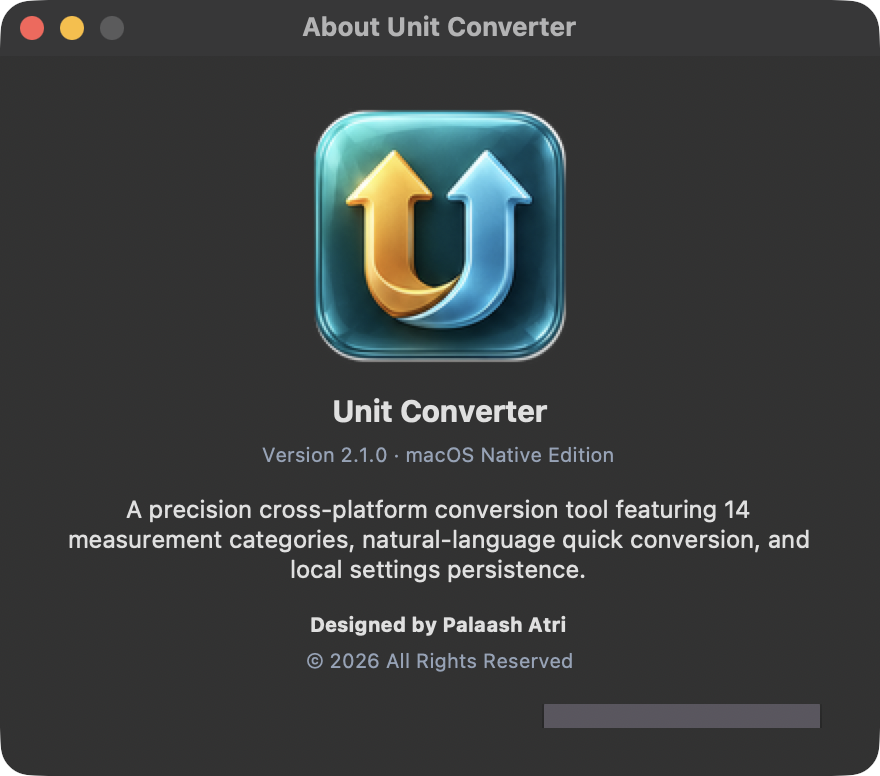
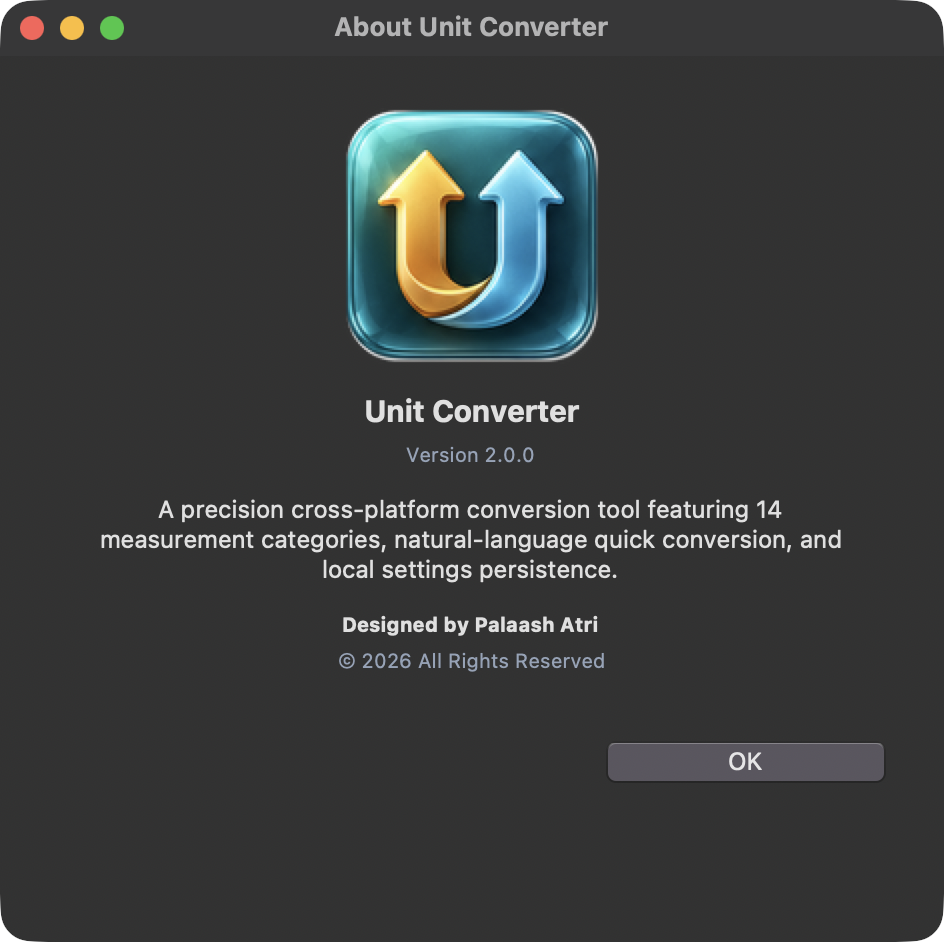
fix(ui): address PR review comments for dialog sizing, shortcuts, preferences focus, and asset bundling

diff --git a/app.py b/app.py
@@ -1,6 +1,7 @@
 """Main application window and launcher for the Unit Converter desktop app."""
 
 import argparse
+import os
 from pathlib import Path
 import sys
 from tempfile import TemporaryDirectory
@@ -112,7 +113,7 @@ def init_style(root: tk.Tk, state: AppState) -> ttk.Style:
 
 def setup_menu_bar(root: tk.Tk, notebook: ttk.Notebook, show_about_dialog,
                    do_reset_tab, do_swap_tab, do_copy_tab_result,
-                   do_focus_quick, do_clear_history, do_close_window):
+                   do_focus_quick, do_focus_preferences, do_clear_history, do_close_window):
     """Build a functional macOS / cross-platform system menu bar."""
     is_mac = sys.platform == "darwin"
     menubar = tk.Menu(root)
@@ -124,19 +125,20 @@ def setup_menu_bar(root: tk.Tk, notebook: ttk.Notebook, show_about_dialog,
         app_menu.add_command(label="About Unit Converter", command=show_about_dialog)
         app_menu.add_separator()
         app_menu.add_command(label="Preferences...", accelerator="Cmd+,",
-                            command=lambda: root.nametowidget(".!frame.!frame2.!labelframe.!spinbox").focus_set())
+                             command=do_focus_preferences)
         app_menu.add_separator()
         app_menu.add_command(label="Hide Unit Converter", accelerator="Cmd+H",
-                            command=lambda: root.iconify())
-        app_menu.add_command(label="Hide Others", accelerator="Option+Cmd+H")
-        app_menu.add_command(label="Show All")
+                             command=lambda: root.tk.call("wm", "iconify", root._w))
+        app_menu.add_command(label="Hide Others", accelerator="Option+Cmd+H",
+                             command=brand.hide_other_applications)
+        app_menu.add_command(label="Show All", command=brand.unhide_all_applications)
         app_menu.add_separator()
         app_menu.add_command(label="Quit Unit Converter", accelerator="Cmd+Q", command=do_close_window)
 
     # 2. File Menu
     file_menu = tk.Menu(menubar, tearoff=0)
     menubar.add_cascade(label="File", menu=file_menu)
-    file_menu.add_command(label="New / Clear Tab", accelerator="Cmd+N" if is_mac else "Ctrl+N",
+    file_menu.add_command(label="New Conversion", accelerator="Cmd+N" if is_mac else "Ctrl+N",
                           command=do_reset_tab)
     file_menu.add_command(label="Clear Current Tab", accelerator="Cmd+K" if is_mac else "Ctrl+K",
                           command=do_reset_tab)
@@ -281,7 +283,7 @@ def build_main_window(settings_path: Path | str | None = None) -> tk.Tk:
     header.grid(row=0, column=0, sticky="ew")
     header.columnconfigure(1, weight=1)
 
-    brand_icon_photo = brand.get_brand_photo(36, master=root) or brand.get_brand_photo(32, master=root)
+    brand_icon_photo = brand.get_brand_photo(32, master=root)
     if brand_icon_photo:
         icon_label = ttk.Label(header, image=brand_icon_photo)
         icon_label.image = brand_icon_photo
@@ -299,17 +301,9 @@ def build_main_window(settings_path: Path | str | None = None) -> tk.Tk:
     def show_about():
         about_window = tk.Toplevel(root)
         about_window.title("About Unit Converter")
-        about_window.resizable(False, False)
+        about_window.resizable(True, True)
         about_window.transient(root)
         about_window.grab_set()
-
-        # Center the window
-        about_window.update_idletasks()
-        width = 440
-        height = 360
-        x = (about_window.winfo_screenwidth() // 2) - (width // 2)
-        y = (about_window.winfo_screenheight() // 2) - (height // 2)
-        about_window.geometry(f"{width}x{height}+{x}+{y}")
 
         content = ttk.Frame(about_window, padding=24)
         content.pack(fill="both", expand=True)
@@ -321,7 +315,8 @@ def build_main_window(settings_path: Path | str | None = None) -> tk.Tk:
             img_lbl.pack(pady=(0, 10))
 
         ttk.Label(content, text="Unit Converter", style="Header.TLabel").pack(pady=(0, 2))
-        ttk.Label(content, text="Version 2.1.0 · macOS Native Edition", style="Subheader.TLabel").pack(pady=(0, 10))
+        version = os.environ.get("UNITCONVERTER_VERSION", "2.0.0")
+        ttk.Label(content, text=f"Version {version}", style="Subheader.TLabel").pack(pady=(0, 10))
 
         ttk.Label(
             content,
@@ -334,8 +329,17 @@ def build_main_window(settings_path: Path | str | None = None) -> tk.Tk:
         ttk.Label(content, text="© 2026 All Rights Reserved", style="Subheader.TLabel").pack(pady=(0, 14))
 
         btn_row = ttk.Frame(content)
-        btn_row.pack(fill="x")
+        btn_row.pack(fill="x", pady=(10, 0))
         ttk.Button(btn_row, text="OK", command=about_window.destroy, width=10).pack(side="right", padx=5)
+
+        # Center the window dynamically based on required content size
+        about_window.update_idletasks()
+        req_w = max(440, content.winfo_reqwidth() + 48)
+        req_h = max(440, content.winfo_reqheight() + 48)
+        about_window.minsize(420, 380)
+        x = (about_window.winfo_screenwidth() // 2) - (req_w // 2)
+        y = (about_window.winfo_screenheight() // 2) - (req_h // 2)
+        about_window.geometry(f"{req_w}x{req_h}+{x}+{y}")
 
     ttk.Button(header, text="About", command=show_about, width=8).grid(
         row=0, column=2, rowspan=2, sticky="e", padx=5
@@ -545,6 +549,11 @@ def build_main_window(settings_path: Path | str | None = None) -> tk.Tk:
     history_top.pack(fill="x", pady=(0, 4))
 
     def clear_history_action():
+        for cancel_fn in tuple(getattr(root, "_pending_history_cancelers", ())):
+            try:
+                cancel_fn()
+            except Exception:
+                pass
         state.history.clear()
         persist_settings()
         update_history()
@@ -608,6 +617,13 @@ def build_main_window(settings_path: Path | str | None = None) -> tk.Tk:
         if frame and hasattr(frame, "copy_result"):
             frame.copy_result()
 
+    def focus_preferences():
+        precision_spin.focus_set()
+        try:
+            precision_spin.selection_range(0, "end")
+        except Exception:
+            pass
+
     def focus_quick():
         quick_entry.focus_set()
         quick_entry.select_range(0, "end")
@@ -633,6 +649,7 @@ def build_main_window(settings_path: Path | str | None = None) -> tk.Tk:
         do_swap_tab=swap_current_tab,
         do_copy_tab_result=copy_current_result,
         do_focus_quick=focus_quick,
+        do_focus_preferences=focus_preferences,
         do_clear_history=clear_history_action,
         do_close_window=close_window,
     )
@@ -644,7 +661,13 @@ def build_main_window(settings_path: Path | str | None = None) -> tk.Tk:
     root.bind(f"<{mod_key}-q>", lambda e: close_window())
     root.bind(f"<{mod_key}-s>", lambda e: swap_current_tab())
     root.bind(f"<{mod_key}-k>", lambda e: reset_current_tab())
+    root.bind(f"<{mod_key}-n>", lambda e: reset_current_tab())
     root.bind(f"<{mod_key}-l>", lambda e: focus_quick())
+    root.bind(f"<{mod_key}-comma>", lambda e: focus_preferences())
+    root.bind(f"<{mod_key}-Shift-C>", lambda e: copy_current_result())
+    root.bind(f"<{mod_key}-Shift-c>", lambda e: copy_current_result())
+    root.bind(f"<{mod_key}-Shift-K>", lambda e: clear_history_action())
+    root.bind(f"<{mod_key}-Shift-k>", lambda e: clear_history_action())
     for i in range(10):
         root.bind(f"<{mod_key}-{i}>", lambda e, idx=i-1: notebook.select(idx if idx >= 0 else 9))
 

diff --git a/test/test_gui.py b/test/test_gui.py
@@ -1,5 +1,6 @@
 """GUI smoke and behavior tests for converter tabs."""
 
+import sys
 import tkinter as tk
 from tkinter import ttk
 
@@ -405,3 +406,86 @@ def test_packaged_smoke_test_mode_checks_all_tabs_and_exits(tk_root, capsys):
     result = app_module.main(["--smoke-test"])
     assert result == 0
     assert "14 converter tabs" in capsys.readouterr().out
+
+
+def test_preferences_menu_focuses_precision_spinbox(tk_root, tmp_path):
+    root, errors = tk_root
+    app = build_main_window(settings_path=tmp_path / "settings.json")
+    app.deiconify()
+    app.focus_force()
+    app.update()
+    try:
+        menubar = app.nametowidget(app.cget("menu"))
+        # On macOS, Preferences is under the apple menu
+        apple_menu = None
+        for child in menubar.winfo_children():
+            if child.winfo_name() == "apple":
+                apple_menu = child
+                break
+        if apple_menu is not None:
+            apple_menu.invoke(2)
+            app.update()
+            spin = _named_widget(app, "precision_spinbox")
+            assert app.focus_get() == spin
+        assert errors == []
+    finally:
+        app.destroy()
+
+
+def test_clear_history_discards_pending_conversion_timer(tk_root, tmp_path):
+    root, errors = tk_root
+    app = build_main_window(settings_path=tmp_path / "settings.json")
+    app.deiconify()
+    app.update()
+    try:
+        nb = _notebook(app)
+        nb.select(13)  # Cooking tab
+        app.update()
+        frame = nb.nametowidget(nb.select())
+        combos = [w for w in _walk(frame) if isinstance(w, ttk.Combobox)]
+        entries = [w for w in _walk(frame) if isinstance(w, ttk.Entry) and not isinstance(w, ttk.Combobox)]
+        combos[0].set("Cup (US)")
+        combos[1].set("Milliliter")
+        entries[0].insert(0, "2")
+        app.update()
+
+        # Immediately invoke Clear History before the 500ms debounce timer
+        clear_btn = next(
+            w for w in _walk(app)
+            if isinstance(w, ttk.Button) and w.cget("text") == "Clear History"
+        )
+        clear_btn.invoke()
+        app.update()
+
+        assert app.app_state.history == []
+        # Wait past the debounce delay and check that history remains empty
+        app.after(600, app.quit)
+        app.mainloop()
+        assert app.app_state.history == []
+        assert errors == []
+    finally:
+        app.destroy()
+
+
+def test_advertised_keyboard_shortcuts(tk_root, tmp_path):
+    root, errors = tk_root
+    app = build_main_window(settings_path=tmp_path / "settings.json")
+    app.deiconify()
+    app.focus_force()
+    app.update()
+    try:
+        # Test tab reset shortcut
+        app.event_generate("<Command-n>" if sys.platform == "darwin" else "<Control-n>")
+        app.update()
+
+        # Test copy result shortcut
+        app.event_generate("<Command-Shift-C>" if sys.platform == "darwin" else "<Control-Shift-C>")
+        app.update()
+
+        # Test clear history shortcut
+        app.event_generate("<Command-Shift-K>" if sys.platform == "darwin" else "<Control-Shift-K>")
+        app.update()
+
+        assert errors == []
+    finally:
+        app.destroy()

diff --git a/src/brand.py b/src/brand.py
@@ -57,9 +57,9 @@ def get_brand_photo(size: int = 64, master: Optional[tk.Widget] = None) -> Optio
 
     target_files = [
         f"icon-{size}.png",
-        f"icon-64.png",
-        f"icon-32.png",
-        f"icon-128.png",
+        "icon-64.png",
+        "icon-32.png",
+        "icon-128.png",
         "icon-source-crop.png",
     ]
 
@@ -167,6 +167,66 @@ def set_macos_dock_icon() -> bool:
 
         if img:
             msg_send(app, "setApplicationIconImage:", img)
+            return True
+    except Exception:
+        pass
+    return False
+
+
+def hide_other_applications() -> bool:
+    """Hide all other applications on macOS via Cocoa AppKit."""
+    if sys.platform != "darwin":
+        return False
+    try:
+        import ctypes
+
+        objc = ctypes.cdll.LoadLibrary("/usr/lib/libobjc.A.dylib")
+        objc.objc_getClass.restype = ctypes.c_void_p
+        objc.objc_getClass.argtypes = [ctypes.c_char_p]
+        objc.sel_registerName.restype = ctypes.c_void_p
+        objc.sel_registerName.argtypes = [ctypes.c_char_p]
+
+        ns_app = objc.objc_getClass(b"NSApplication")
+        sel_shared = objc.sel_registerName(b"sharedApplication")
+        sel_hide = objc.sel_registerName(b"hideOtherApplications:")
+
+        func = objc.objc_msgSend
+        func.restype = ctypes.c_void_p
+        func.argtypes = [ctypes.c_void_p, ctypes.c_void_p, ctypes.c_void_p]
+
+        app = func(ns_app, sel_shared, None)
+        if app:
+            func(app, sel_hide, None)
+            return True
+    except Exception:
+        pass
+    return False
+
+
+def unhide_all_applications() -> bool:
+    """Unhide all applications on macOS via Cocoa AppKit."""
+    if sys.platform != "darwin":
+        return False
+    try:
+        import ctypes
+
+        objc = ctypes.cdll.LoadLibrary("/usr/lib/libobjc.A.dylib")
+        objc.objc_getClass.restype = ctypes.c_void_p
+        objc.objc_getClass.argtypes = [ctypes.c_char_p]
+        objc.sel_registerName.restype = ctypes.c_void_p
+        objc.sel_registerName.argtypes = [ctypes.c_char_p]
+
+        ns_app = objc.objc_getClass(b"NSApplication")
+        sel_shared = objc.sel_registerName(b"sharedApplication")
+        sel_unhide = objc.sel_registerName(b"unhideAllApplications:")
+
+        func = objc.objc_msgSend
+        func.restype = ctypes.c_void_p
+        func.argtypes = [ctypes.c_void_p, ctypes.c_void_p, ctypes.c_void_p]
+
+        app = func(ns_app, sel_shared, None)
+        if app:
+            func(app, sel_unhide, None)
             return True
     except Exception:
         pass

diff --git a/src/converter_ui.py b/src/converter_ui.py
@@ -185,12 +185,19 @@ def build_converter_frame(parent, title, unit_labels, convert, on_status=None, s
     from_combo.bind("<Return>", callback)
     to_combo.bind("<Return>", callback)
 
+    pending_history_cancelers = None
+
     def cleanup_history_timer(event):
         if event.widget is frame:
             cancel_pending_history()
             if pending_history_flushers is not None:
                 try:
                     pending_history_flushers.remove(flush_pending_history)
+                except ValueError:
+                    pass
+            if pending_history_cancelers is not None:
+                try:
+                    pending_history_cancelers.remove(cancel_pending_history)
                 except ValueError:
                     pass
 
@@ -204,5 +211,13 @@ def build_converter_frame(parent, title, unit_labels, convert, on_status=None, s
             pending_history_flushers = []
             root._pending_history_flushers = pending_history_flushers
         pending_history_flushers.append(flush_pending_history)
+
+        pending_history_cancelers = getattr(
+            root, "_pending_history_cancelers", None
+        )
+        if pending_history_cancelers is None:
+            pending_history_cancelers = []
+            root._pending_history_cancelers = pending_history_cancelers
+        pending_history_cancelers.append(cancel_pending_history)
     input_field.focus_set()
     return frame
